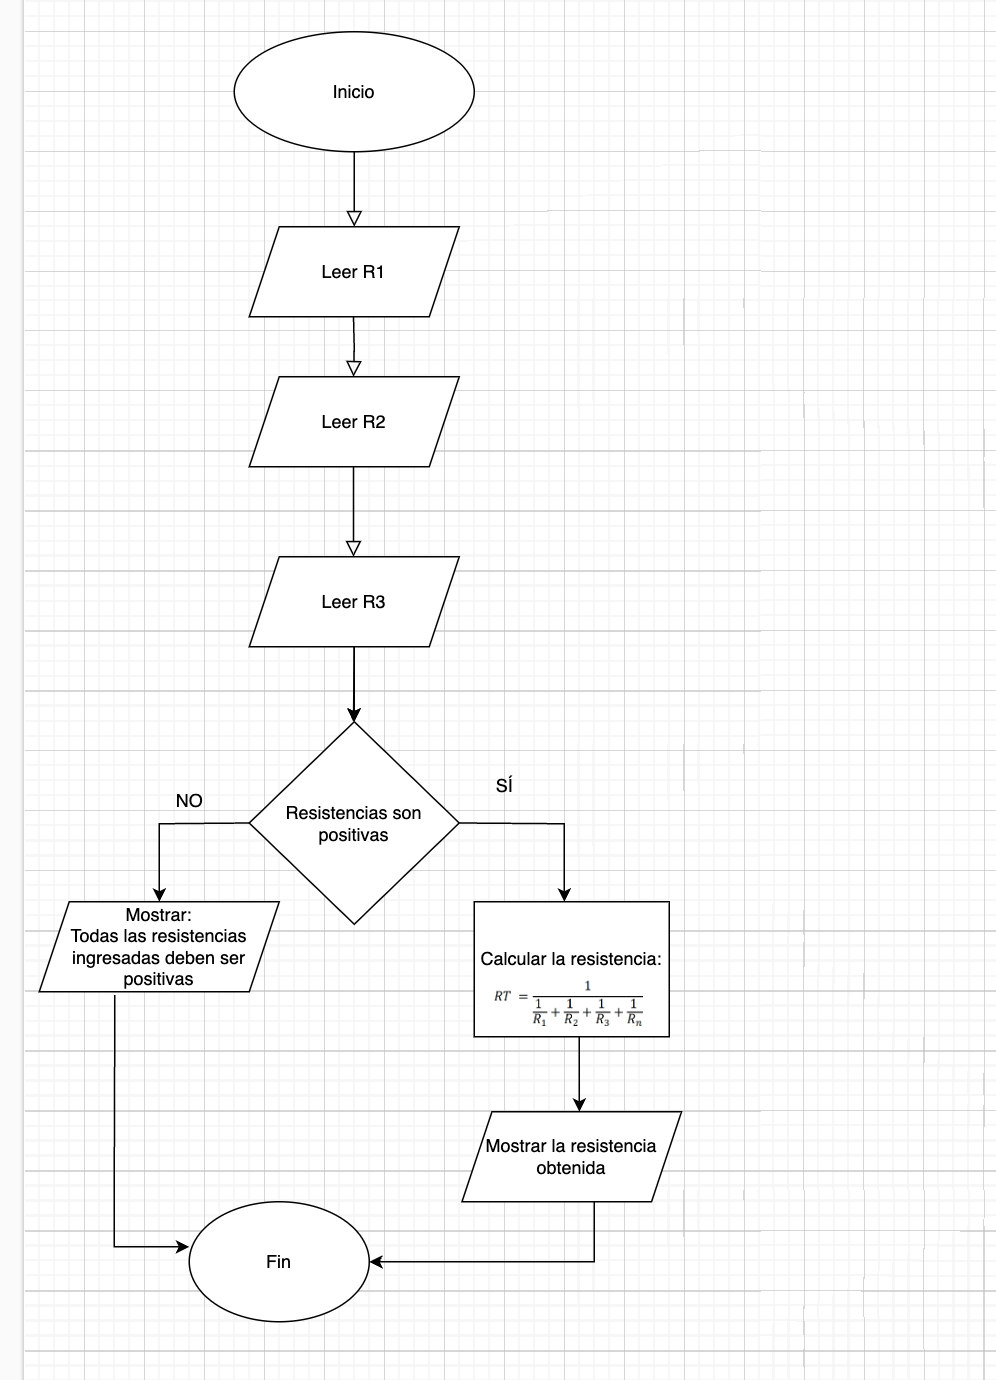
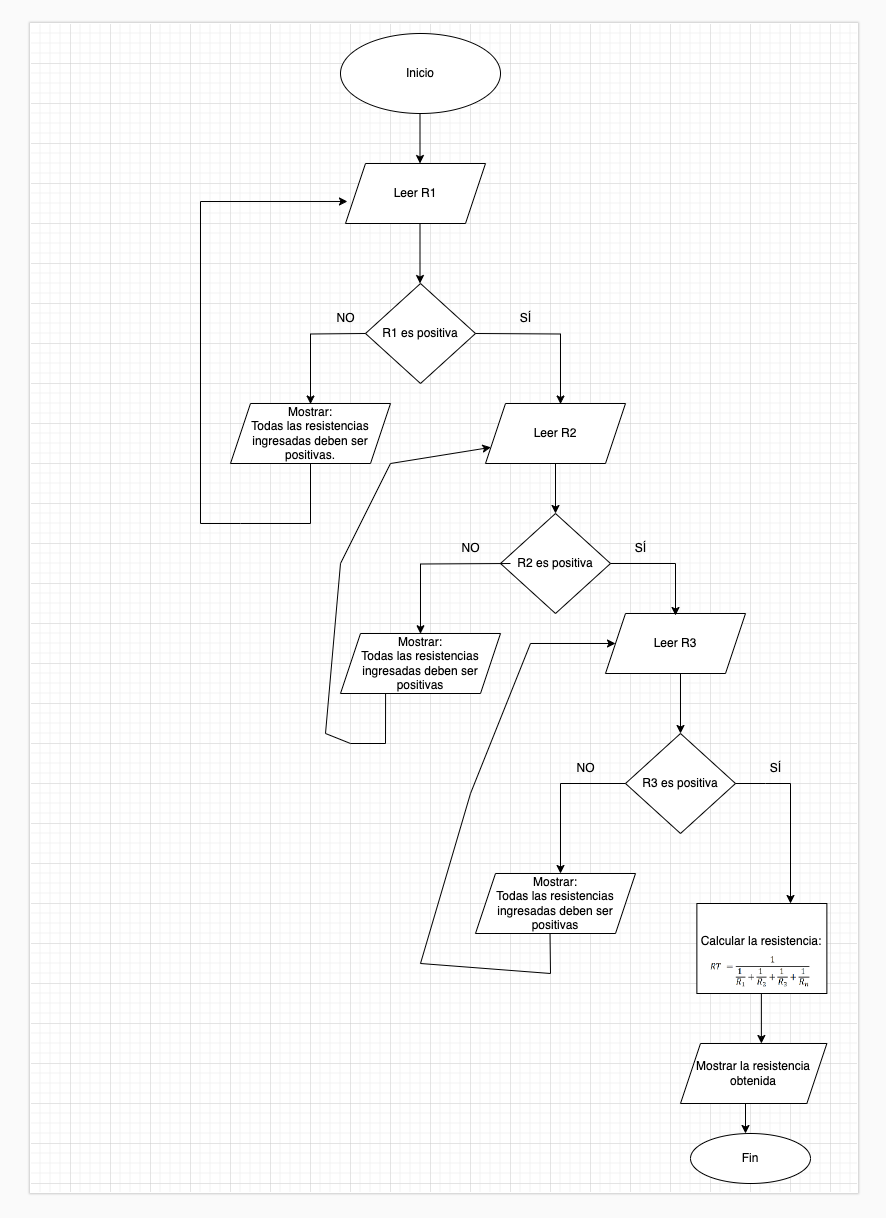
Modifica codigo y diagrama para incorporar ciclo do while

diff --git a/src/Resistencia.java b/src/Resistencia.java
@@ -4,34 +4,43 @@ public class Resistencia {
     public static void main(String[] args) {
         Scanner scanner = new Scanner(System.in);
 
+        float R1 = 0;
+        float R2 = 0;
+        float R3 = 0;
+
         // Se solicita al usuario que ingrese 3 resistencias
-        System.out.print("Ingrese resistencia 1: ");
-        float R1 = scanner.nextFloat();
-        System.out.print("Ingrese resistencia 2: ");
-        float R2 = scanner.nextFloat();
-        System.out.print("Ingrese resistencia 3: ");
-        float R3 = scanner.nextFloat();
+        do {
+            System.out.print("Ingrese resistencia 1: ");
+            R1 = scanner.nextFloat();
+            if (R1 <= 0) {
+                System.out.println("Todas las resistencias deben ser positivas. Por favor, ingrese un valor positivo.");
+            }
+        } while (R1 <= 0);
 
-        // Se verifica que todas las resistencias ingresadas sean positivas
-        if (R1 <= 0 || R2 <= 0 || R3 <= 0) {
+        do {
+            System.out.print("Ingrese resistencia 2: ");
+            R2 = scanner.nextFloat();
+            if (R2 <= 0) {
+                System.out.println("Todas las resistencias deben ser positivas. Por favor, ingrese un valor positivo.");
+            }
+        } while (R2 <= 0);
 
-            // Si las resistencias son negativas, se muestra el mensaje:
-            System.out.println("Todas las resistencias deben ser positivas.");
-
-            // Se cierra el objeto scanner
-            scanner.close();
-
-            // Finaliza el programa
-            return;
-        }
+        do {
+            System.out.print("Ingrese resistencia 3: ");
+            R3 = scanner.nextFloat();
+            if (R3 <= 0) {
+                System.out.println("Todas las resistencias deben ser positivas. Por favor, ingrese un valor positivo.");
+            }
+        } while (R3 <= 0);
 
         // Si los valores ingresados son positivos,se calcula la resistencia total
         float RT = 1 / (1 / R1 + 1 / R2 + 1 / R3);
 
         // Se muestra el resultado con dos decimales de precisión
-        System.out.printf("La resistencia total es de %.2f\n", RT);
+        System.out.printf("La resistencia total es de %.1f\n", RT);
 
         // Se cierra el objeto scanner
         scanner.close();
     }
 }
+
